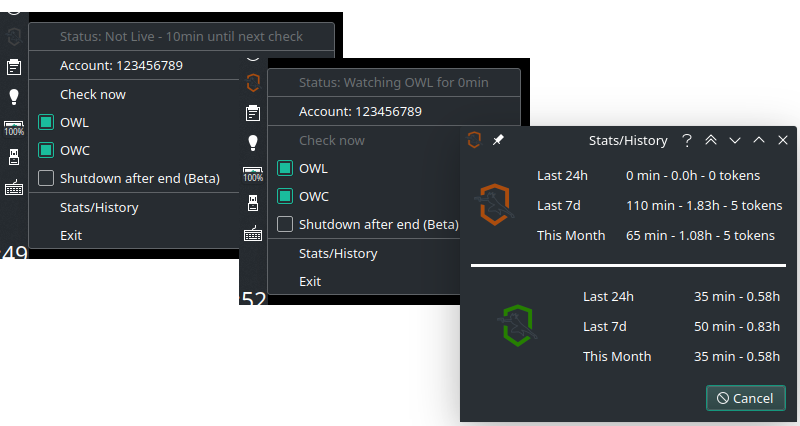
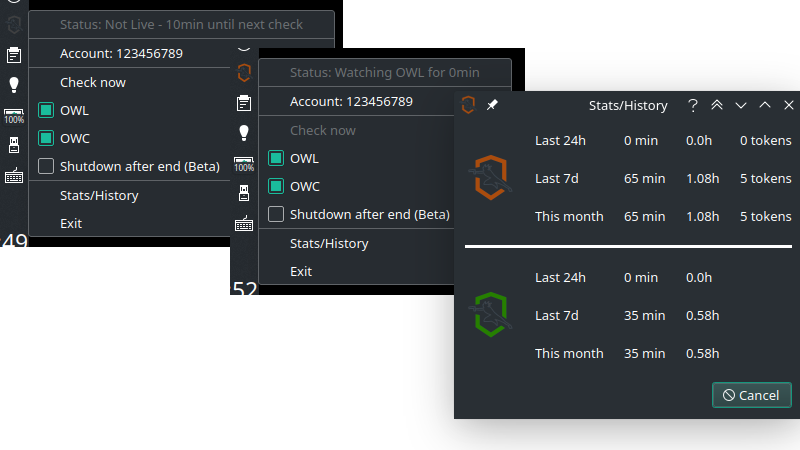
Aligned text in Stats dialog

diff --git a/statsdialog.py b/statsdialog.py
@@ -17,54 +17,49 @@ class StatsDialog(QDialog):
 
         self.process_file(history_data, account_id)
 
-        outer_layout = QVBoxLayout()
-
         label_owl = QLabel("<h3>Overwatch League</h3>")
         label_owl.setPixmap(icon_owl.pixmap(50,50))
         label_owc = QLabel("<h3>Overwatch Contenders</h3>")
         label_owc.setPixmap(icon_owc.pixmap(50,50))
 
-        stats_owl_text1 = (
-            f"<p>Last 24h"
-            f"<p>Last 7d"
-            f"<p>This Month"
-        )
-        stats_owl_text2 = (
-            f"<p>{self.stats_owl[0]} min - {round(self.stats_owl[0]/60, 2)}h - {int(self.stats_owl[0]/60)*5} tokens \n"
-            f"<p>{self.stats_owl[1]} min - {round(self.stats_owl[1]/60, 2)}h - {int(self.stats_owl[1]/60)*5} tokens \n"
-            f"<p>{self.stats_owl[2]} min - {round(self.stats_owl[2]/60, 2)}h - {int(self.stats_owl[2]/60)*5} tokens \n"
-        )
-        stats_owc_text1 = (
-            f"<p>Last 24h"
-            f"<p>Last 7d"
-            f"<p>This Month"
-        )
-        stats_owc_text2 = (
-            f"<p>{self.stats_owc[0]} min - {round(self.stats_owc[0]/60, 2)}h\n"
-            f"<p>{self.stats_owc[1]} min - {round(self.stats_owc[1]/60, 2)}h\n"
-            f"<p>{self.stats_owc[2]} min - {round(self.stats_owc[2]/60, 2)}h\n"
-        )
-
         btn_box = QDialogButtonBox(QDialogButtonBox.Cancel)
         btn_box.rejected.connect(self.reject)
 
-        innerlayout1 = QHBoxLayout()
-        innerlayout1.addWidget(label_owl, alignment=Qt.AlignCenter)
-        innerlayout1.addWidget(QLabel(stats_owl_text1))
-        innerlayout1.addWidget(QLabel(stats_owl_text2))
-        innerlayout2 = QHBoxLayout()
-        innerlayout2.addWidget(label_owc, alignment=Qt.AlignCenter)
-        innerlayout2.addWidget(QLabel(stats_owc_text1))
-        innerlayout2.addWidget(QLabel(stats_owc_text2))
+        inner_layout = QGridLayout()
+
+        inner_layout.addWidget(label_owl, 0, 0, 3, 1)
+        inner_layout.addWidget(QLabel("Last 24h"), 0, 1)
+        inner_layout.addWidget(QLabel("Last 7d"), 1, 1)
+        inner_layout.addWidget(QLabel("This month"), 2, 1)
+        inner_layout.addWidget(QLabel(str(self.stats_owl[0]) + " min"), 0, 2)
+        inner_layout.addWidget(QLabel(str(self.stats_owl[1]) + " min"), 1, 2)
+        inner_layout.addWidget(QLabel(str(self.stats_owl[2]) + " min"), 2, 2)
+        inner_layout.addWidget(QLabel(str(round(self.stats_owl[0]/60, 2)) + "h"), 0, 3)
+        inner_layout.addWidget(QLabel(str(round(self.stats_owl[1]/60, 2)) + "h"), 1, 3)
+        inner_layout.addWidget(QLabel(str(round(self.stats_owl[2]/60, 2)) + "h"), 2, 3)
+        inner_layout.addWidget(QLabel(str(int(self.stats_owl[0]/60)*5) + " tokens"), 0, 4)
+        inner_layout.addWidget(QLabel(str(int(self.stats_owl[1]/60)*5) + " tokens"), 1, 4)
+        inner_layout.addWidget(QLabel(str(int(self.stats_owl[2]/60)*5) + " tokens"), 2, 4)
+        
         line = QFrame()
         line.setFrameShape(QFrame.HLine)
         line.setLineWidth(3)
+        inner_layout.addWidget(line, 3, 0, 2, 5)
 
-        outer_layout.addLayout(innerlayout1)
-        outer_layout.addWidget(line)
-        outer_layout.addLayout(innerlayout2)
+        inner_layout.addWidget(label_owc, 5, 0, 3, 1)
+        inner_layout.addWidget(QLabel("Last 24h"), 5, 1)
+        inner_layout.addWidget(QLabel("Last 7d"), 6, 1)
+        inner_layout.addWidget(QLabel("This month"), 7, 1)
+        inner_layout.addWidget(QLabel(str(self.stats_owc[0]) + " min"), 5, 2)
+        inner_layout.addWidget(QLabel(str(self.stats_owc[1]) + " min"), 6, 2)
+        inner_layout.addWidget(QLabel(str(self.stats_owc[2]) + " min"), 7, 2)
+        inner_layout.addWidget(QLabel(str(round(self.stats_owc[0]/60, 2)) + "h"), 5, 3)
+        inner_layout.addWidget(QLabel(str(round(self.stats_owc[1]/60, 2)) + "h"), 6, 3)
+        inner_layout.addWidget(QLabel(str(round(self.stats_owc[2]/60, 2)) + "h"), 7, 3)
+
+        outer_layout = QVBoxLayout()
+        outer_layout.addLayout(inner_layout)
         outer_layout.addWidget(btn_box)
-
         outer_layout.setSpacing(20)
 
         self.setLayout(outer_layout)
